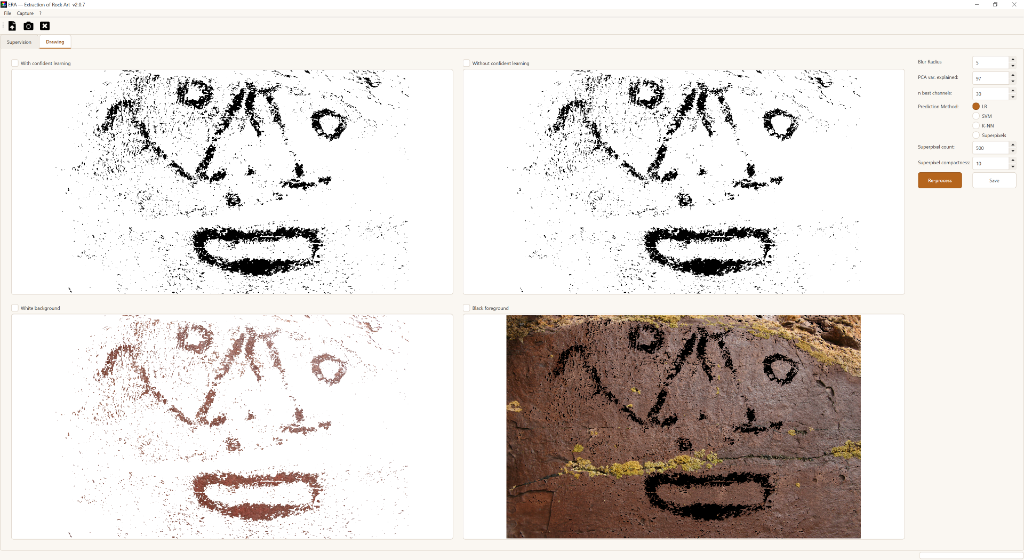
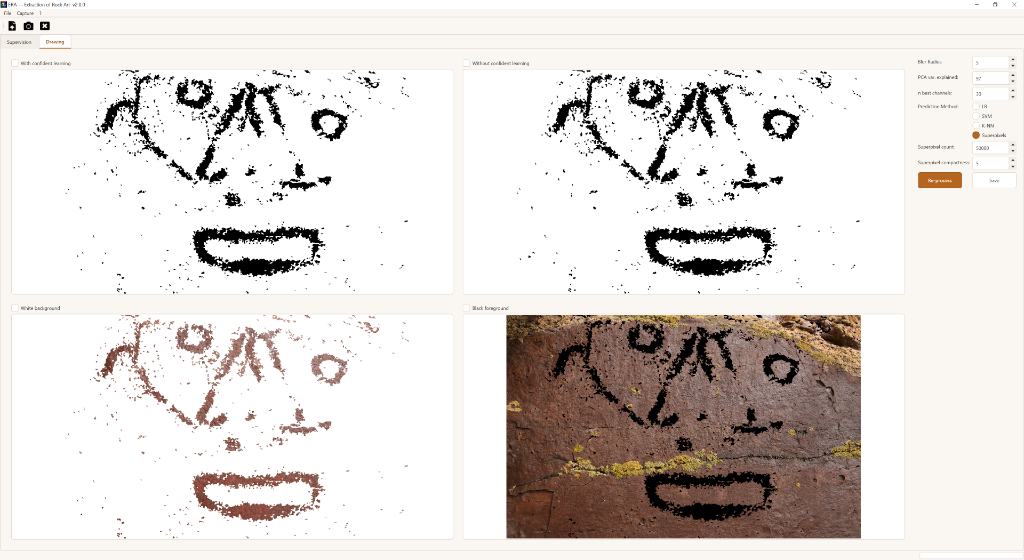
Speed up whitening and classification without changing results
- check_subset: exact distinct-colour test on a strided sample first
  (the full-image np.unique sort was 87% of each whitening)
- K-NN: FastKNeighborsClassifier runs the neighbour query through a
  multi-threaded cKDTree (identical predictions, 290 s -> 7 s)
- CleanLearning: seed=0 (reproducible run to run) and n_jobs=1 (no
  worker-process spawning, 7 ERA.exe launches in the frozen build)
- collect_selected skips colour spaces without a selected channel
- Superpixel count default 50 000; README: performance section,
  updated Drawing-tab screenshot, 87 tests

Generated with [Devin](https://devin.ai)

diff --git a/main.py b/main.py
@@ -3,13 +3,14 @@ import logging
 import numpy
 import os
 from widgets import *
-from imagedata import ImageData
+from imagedata import ImageData, color_interpreters_dict
 from qt import QtGui, QtWidgets, QtCore
 import qrc_resources
 from processors.utils import InsufficientSelectionError
 from theme import apply_theme
 
 import cv2
+from scipy.spatial import cKDTree
 from scipy.stats import ttest_ind
 from cleanlab.classification import CleanLearning
 from sklearn.linear_model import LogisticRegression
@@ -31,6 +32,7 @@ DEFAULT_PCA_SIZE = 97
 DEFAULT_N_SIZE = 30
 DEFAULT_GAIN = 1
 DEFAULT_PEN_SIZE = 10
+DEFAULT_SUPERPIXEL_COUNT = 50000
 
 # Minimum labelled pixels per class before a classifier is trained.
 MIN_SUPERVISION_PIXELS = 20
@@ -189,21 +191,50 @@ def check_supervision(case_mask, not_case_mask,
     return None
 
 
+# The label-issue filter runs on <= 50k samples: a process pool would cost
+# more in spawn overhead (and, frozen, in extra ERA.exe launches) than it
+# saves.  seed=0 makes the CV shuffle reproducible run to run.
+CLEANLAB_KWARGS = dict(seed=0, find_label_issues_kwargs={'n_jobs': 1})
+
+
+class FastKNeighborsClassifier(KNeighborsClassifier):
+    """KNeighborsClassifier whose predict() uses a multi-threaded cKDTree query.
+
+    Same neighbours, same majority vote, same result as the parent class;
+    only the query is parallel (sklearn's tree query is not).  fit and
+    predict_proba are inherited unchanged.
+    """
+    def predict(self, X):
+        if getattr(self, 'outputs_2d_', False) or self.weights != 'uniform' \
+                or self.metric not in ('minkowski', 'euclidean') or self.p != 2:
+            return super().predict(X)
+        X = numpy.asarray(X, dtype=numpy.float64)
+        _, idx = cKDTree(self._fit_X).query(X, k=self.n_neighbors, workers=-1)
+        idx = idx.reshape(len(X), -1)
+        votes = self._y[idx]
+        counts = numpy.stack([(votes == c).sum(axis=1)
+                              for c in range(len(self.classes_))], axis=1)
+        return self.classes_[counts.argmax(axis=1)]
+
+
 def get_classifiers(prediction_method):
     """Return (clf_with_noisy_labels, baseline_clf, extra_scaler)."""
     if prediction_method == 'LR':
         base = LogisticRegression(solver='lbfgs', max_iter=10000)
-        clfwn = CleanLearning(clf=LogisticRegression(solver='lbfgs', max_iter=10000))
+        clfwn = CleanLearning(clf=LogisticRegression(solver='lbfgs', max_iter=10000),
+                              **CLEANLAB_KWARGS)
         return clfwn, base, None
 
     if prediction_method == 'K-NN':
-        base = KNeighborsClassifier(n_neighbors=11, n_jobs=-1)
-        clfwn = CleanLearning(clf=KNeighborsClassifier(n_neighbors=11, n_jobs=-1))
+        base = FastKNeighborsClassifier(n_neighbors=11, n_jobs=-1)
+        clfwn = CleanLearning(clf=FastKNeighborsClassifier(n_neighbors=11, n_jobs=-1),
+                              **CLEANLAB_KWARGS)
         return clfwn, base, None
 
     if prediction_method == 'SVM':
         base = LinearSVC(dual='auto', max_iter=10000)
-        clfwn = CleanLearning(clf=CalibratedClassifierCV(LinearSVC(dual='auto', max_iter=10000)))
+        clfwn = CleanLearning(clf=CalibratedClassifierCV(LinearSVC(dual='auto', max_iter=10000)),
+                              **CLEANLAB_KWARGS)
         return clfwn, base, StandardScaler()
 
     if prediction_method == 'Superpixels':
@@ -221,7 +252,7 @@ def get_classifiers(prediction_method):
             n_jobs=-1,
             random_state=42,
             class_weight='balanced',
-        ))
+        ), **CLEANLAB_KWARGS)
         return clfwn, base, None
 
     raise ValueError(f"Unknown prediction method: {prediction_method}")
@@ -340,16 +371,19 @@ def collect_selected(data, selected, blur, worker, total, step0):
     height, width = data.raw_display.shape[:2]
     n_sel = int(selected.sum())
     cols = numpy.empty((height * width, n_sel), dtype=numpy.float32)
-    chan = 0
     k = 0
-    for i, (proc, cs, native) in enumerate(data.iter_natives()):
+    for i, (proc, cs) in enumerate(
+            (p, c) for p in data.processor_names
+            for c in data.colorspace_names):
         worker.report(step0 + i + 1, total)
+        if not selected[3 * i:3 * i + 3].any():
+            continue
+        native = color_interpreters_dict[cs].interpret(data.whitened[proc])
         blurred = cv2.blur(native, (blur, blur))
         for c in range(3):
-            if selected[chan]:
+            if selected[3 * i + c]:
                 cols[:, k] = blurred[..., c].ravel()
                 k += 1
-            chan += 1
     return cols
 
 
@@ -746,7 +780,7 @@ class MainWindow(QtWidgets.QMainWindow):
         self.superpixel_count_spinbox = QtWidgets.QSpinBox(self)
         self.superpixel_count_spinbox.setRange(50, 100000)
         self.superpixel_count_spinbox.setSingleStep(50)
-        self.superpixel_count_spinbox.setValue(500)
+        self.superpixel_count_spinbox.setValue(DEFAULT_SUPERPIXEL_COUNT)
         refine_layout.addRow(self.tr('Superpixel count:'), self.superpixel_count_spinbox)
 
         self.superpixel_compactness_spinbox = QtWidgets.QSpinBox(self)
@@ -851,7 +885,7 @@ class MainWindow(QtWidgets.QMainWindow):
         self.Nsize.setValue(DEFAULT_N_SIZE)
         self.PCAsize.setValue(DEFAULT_PCA_SIZE)
         self.blursize.setValue(DEFAULT_BLUR)
-        self.superpixel_count_spinbox.setValue(500)
+        self.superpixel_count_spinbox.setValue(DEFAULT_SUPERPIXEL_COUNT)
         self.superpixel_compactness_spinbox.setValue(10)
         for result in self.results.values():
             view = result['view']

diff --git a/tests/test_classification.py b/tests/test_classification.py
@@ -116,3 +116,38 @@ def test_superpixels_supervision_gap(rgb_image):
             data, case, notc, 'Superpixels',
             dict(blur=3, n_best=10, pca_pct=95, n_segments=60, compactness=10),
             _Worker())
+
+
+def test_fast_knn_matches_sklearn():
+    from sklearn.neighbors import KNeighborsClassifier
+    rng = np.random.default_rng(0)
+    Xtr = rng.normal(size=(10000, 3))
+    ytr = (Xtr[:, 0] + 0.3 * rng.normal(size=10000) > 0).astype(int)
+    Xq = rng.normal(size=(200000, 3))
+    ref = KNeighborsClassifier(11).fit(Xtr, ytr).predict(Xq)
+    fast = era_main.FastKNeighborsClassifier(11).fit(Xtr, ytr).predict(Xq)
+    np.testing.assert_array_equal(fast, ref)
+
+
+def test_fast_knn_multiclass_vote():
+    from sklearn.neighbors import KNeighborsClassifier
+    rng = np.random.default_rng(1)
+    Xtr = rng.normal(size=(10000, 3))
+    ytr = rng.integers(0, 3, size=10000)
+    Xq = rng.normal(size=(50000, 3))
+    ref = KNeighborsClassifier(7).fit(Xtr, ytr).predict(Xq)
+    fast = era_main.FastKNeighborsClassifier(7).fit(Xtr, ytr).predict(Xq)
+    np.testing.assert_array_equal(fast, ref)
+
+
+def test_fast_knn_inside_clean_learning():
+    from cleanlab.classification import CleanLearning
+    rng = np.random.default_rng(2)
+    Xtr = rng.normal(size=(2000, 3))
+    ytr = (Xtr[:, 0] > 0).astype(int)
+    Xq = rng.normal(size=(500, 3))
+    clf = CleanLearning(clf=era_main.FastKNeighborsClassifier(11), seed=0,
+                        find_label_issues_kwargs={'n_jobs': 1})
+    clf.fit(Xtr, ytr)
+    pred = clf.predict(Xq)
+    assert pred.shape == (500,)

diff --git a/processors/utils.py b/processors/utils.py
@@ -46,13 +46,26 @@ def neutral_image(n_rows, n_cols, n_channels=3):
                    dtype=np.float32)
 
 
+def _has_min_unique(subset, min_unique):
+    """Exact test `number of distinct rows >= min_unique`, cheap in the common case."""
+    n = subset.shape[0]
+    probe = 4096
+    if n > probe:
+        # distinct rows in a strided sample <= distinct rows overall, so a
+        # positive answer on the sample is already exact
+        sample = subset[:: max(1, n // probe)]
+        if np.unique(sample, axis=0).shape[0] >= min_unique:
+            return True
+    return np.unique(subset, axis=0).shape[0] >= min_unique
+
+
 def check_subset(subset, min_pixels, min_unique, require_full_rank=False):
     """Return True if *subset* (N, C) can support whitening statistics."""
     if subset is None or subset.shape[0] < min_pixels:
         return False
     if not np.isfinite(subset).all():
         return False
-    if np.unique(subset, axis=0).shape[0] < min_unique:
+    if not _has_min_unique(subset, min_unique):
         return False
     if require_full_rank:
         x = subset.astype(np.float64)

diff --git a/tests/test_whitening.py b/tests/test_whitening.py
@@ -137,3 +137,24 @@ def warnings_caught():
 
 def no_runtime_warnings(rec):
     return not any(issubclass(w.category, RuntimeWarning) for w in rec)
+
+
+def test_check_subset_sampled_positive():
+    """Distinct rows beyond the stride sample still count: exact result."""
+    subset = np.full((10000, 3), 5.0, dtype=np.float32)
+    # odd indices only: the ::2 strided sample stays constant, so the full
+    # np.unique fallback is what must return True
+    for r in (1, 3, 5, 7, 9):
+        subset[r] = [r, r + 1, r + 2]  # 5 distinct rows + the constant row
+    assert check_subset(subset, min_pixels=10, min_unique=4)
+
+
+def test_check_subset_constant_rejected():
+    subset = np.full((10000, 3), 5.0, dtype=np.float32)
+    assert not check_subset(subset, min_pixels=10, min_unique=2)
+
+
+def test_check_subset_one_below_min_unique():
+    subset = np.full((10000, 3), 5.0, dtype=np.float32)
+    subset[:5000] = [1.0, 2.0, 3.0]  # exactly 2 distinct rows, need 3
+    assert not check_subset(subset, min_pixels=10, min_unique=3)

diff --git a/README.md b/README.md
@@ -23,6 +23,19 @@ ERA helps researchers identify rock paintings and produce high-quality documenta
 
 The whole pipeline works on the image at its native bit depth (8- or 16-bit, alpha-aware); 8-bit quantisation only happens for display and export.
 
+### Much faster than ERA 1
+
+ERA 2 produces exactly the same transforms as the original 2020 implementation (verified by the compatibility test suite) but is considerably faster. On a 2000 × 1260 photograph and a 16-core PC:
+
+| Step | ERA 1 | ERA 2 |
+|---|---:|---:|
+| Opening an image (four whitening transforms) | 15 s | **2 s** |
+| Decorrelation refinement | 2.5 s | **1 s** |
+| Classification — LR / SVM / Superpixels | 9 – 12 s | **5 – 8 s** |
+| Classification — K-NN | 290 s | **7 s** |
+
+The K-NN prediction now runs a multi-threaded nearest-neighbour query (same neighbours, same vote, identical result), redundant validation passes over the full image were removed, and the confident-learning step no longer spawns worker processes. Results are also fully reproducible: the same image and strokes always give the same drawing, run after run.
+
 ## Installation
 
 Pre-built packages are published for every release on the [Releases page](https://github.com/Fabri-Momo/ERA2/releases/latest).
@@ -74,7 +87,7 @@ PNG, JPG, BMP and TIF (8- or 16-bit) are accepted. RAW captures developed to TIF
 
 ![Drawing tab](media/screenshot-drawing.png)
 
-- **Prediction method** — *LR* (logistic regression, default, fast), *SVM* (often better, slower), *K-NN*, or *Superpixels* (SLIC segmentation + random forest, controlled by *Superpixel count* and *compactness*).
+- **Prediction method** — *LR* (logistic regression, default), *SVM* (often better), *K-NN* (*k*-nearest neighbours), or *Superpixels* (SLIC segmentation + random forest, controlled by *Superpixel count* — default 50 000 — and *compactness*). All four methods now complete in a few seconds on a typical photograph.
 - **Tuning** — *Blur Radius*, *PCA var. explained* and *n best channels* (see the paper for their meaning). Press **Re-process** after any change. You can also go back to the Supervision tab, add strokes, and press Continue again.
 - **Save** — tick the outputs you want and press **Save**; choose a destination folder. Images are written as uncompressed TIF, and the two black-and-white drawings are also written as SVG contours.
 
@@ -84,7 +97,7 @@ Help is available from the **?** menu; **? → About…** shows the installed ve
 
 ```
 conda activate era2
-python -m pytest tests -q          # 79 tests: whitening, colour spaces, contrast, ICA, classification, SVG, compatibility
+python -m pytest tests -q          # 87 tests: whitening, colour spaces, contrast, ICA, classification, SVG, compatibility
 ```
 
 The `tests/test_compat.py` suite checks the current pipeline against outputs of the historical (2020) implementation stored in `baseline_outputs.npz`, so the scientific transforms cannot drift silently.
